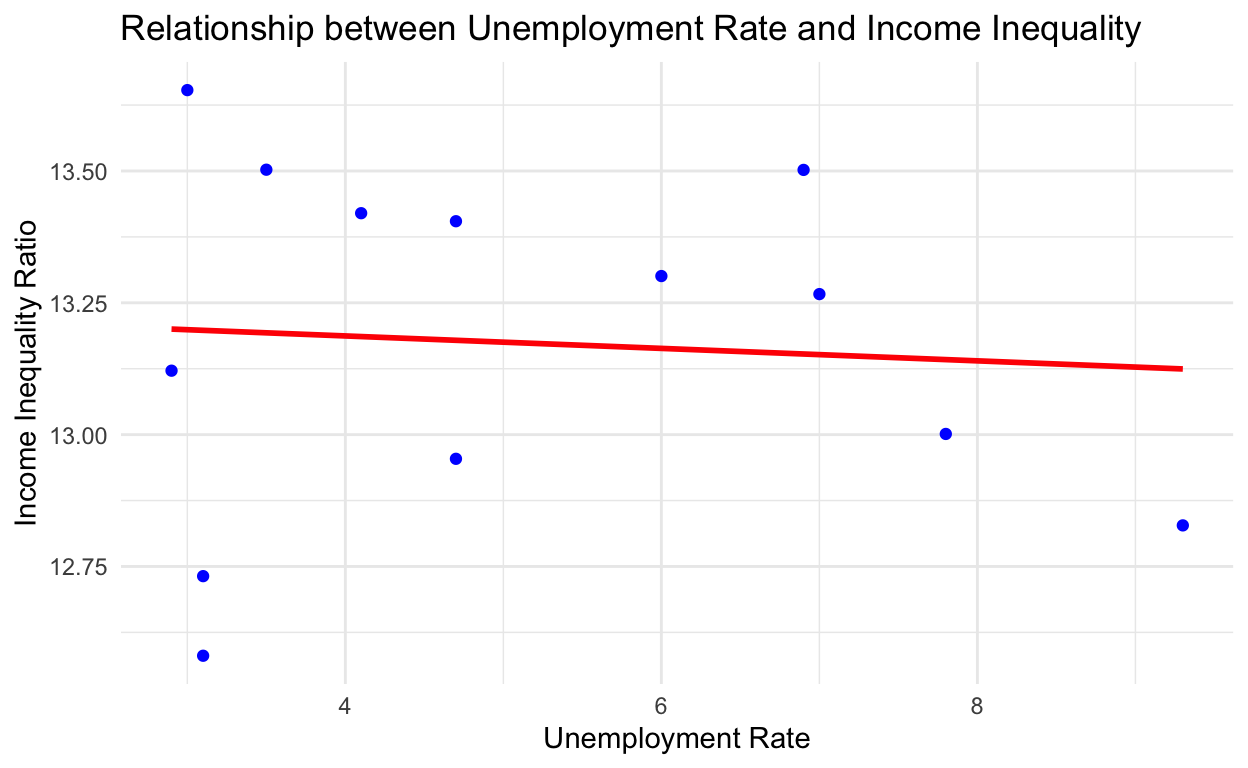
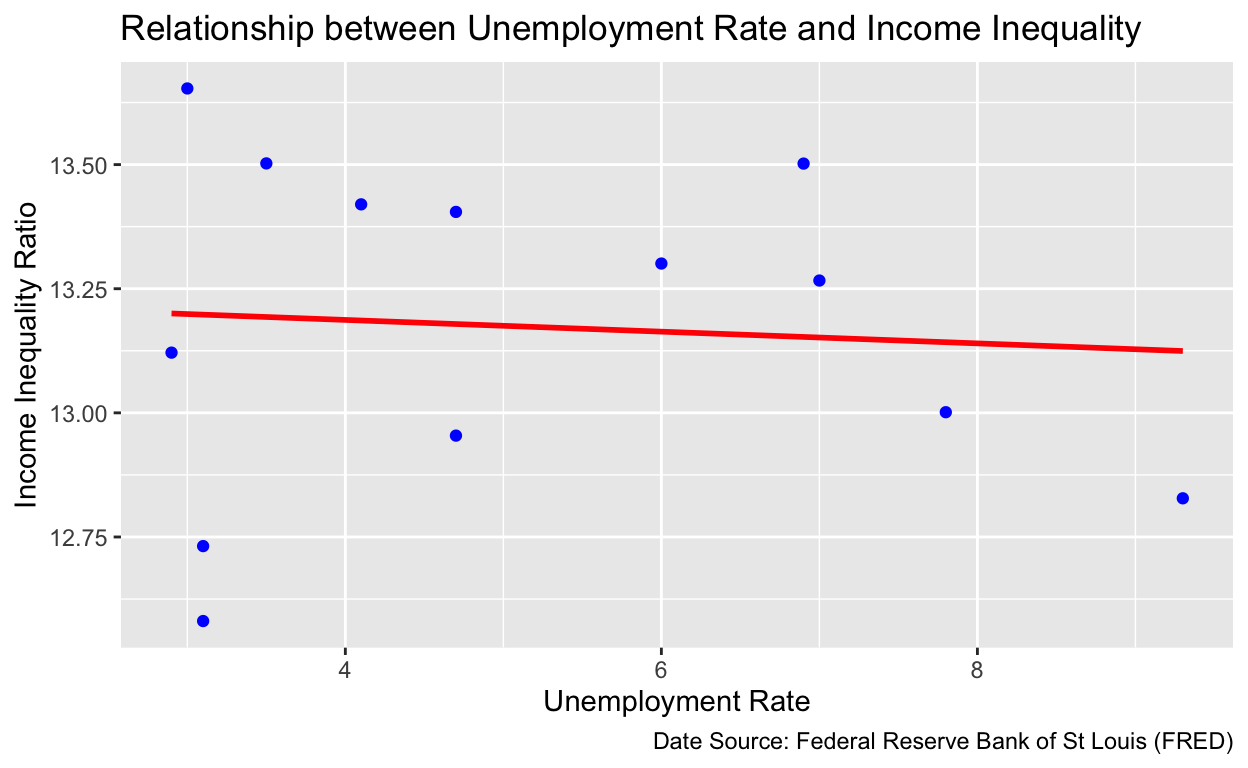
m4 finished

diff --git a/index.html b/index.html
@@ -115,7 +115,7 @@ code span.wa { color: #5e5e5e; font-style: italic; } /* Warning */
   <!--/radix_placeholder_rmarkdown_metadata-->
   
   <script type="text/json" id="radix-resource-manifest">
-  {"type":"character","attributes":{},"value":["index_files/anchor-4.2.2/anchor.min.js","index_files/bowser-1.9.3/bowser.min.js","index_files/distill-2.2.21/template.v2.js","index_files/figure-html5/unnamed-chunk-3-1.png","index_files/header-attrs-2.17/header-attrs.js","index_files/header-attrs-2.28/header-attrs.js","index_files/jquery-3.6.0/jquery-3.6.0.js","index_files/jquery-3.6.0/jquery-3.6.0.min.js","index_files/jquery-3.6.0/jquery-3.6.0.min.map","index_files/popper-2.6.0/popper.min.js","index_files/tippy-6.2.7/tippy-bundle.umd.min.js","index_files/tippy-6.2.7/tippy-light-border.css","index_files/tippy-6.2.7/tippy.css","index_files/tippy-6.2.7/tippy.umd.min.js","index_files/webcomponents-2.0.0/webcomponents.js"]}
+  {"type":"character","attributes":{},"value":["index_files/anchor-4.2.2/anchor.min.js","index_files/bowser-1.9.3/bowser.min.js","index_files/distill-2.2.21/template.v2.js","index_files/figure-html5/unnamed-chunk-3-1.png","index_files/header-attrs-2.17/header-attrs.js","index_files/header-attrs-2.28/header-attrs.js","index_files/header-attrs-2.29/header-attrs.js","index_files/jquery-3.6.0/jquery-3.6.0.js","index_files/jquery-3.6.0/jquery-3.6.0.min.js","index_files/jquery-3.6.0/jquery-3.6.0.min.map","index_files/popper-2.6.0/popper.min.js","index_files/tippy-6.2.7/tippy-bundle.umd.min.js","index_files/tippy-6.2.7/tippy-light-border.css","index_files/tippy-6.2.7/tippy.css","index_files/tippy-6.2.7/tippy.umd.min.js","index_files/webcomponents-2.0.0/webcomponents.js"]}
   </script>
   <!--radix_placeholder_navigation_in_header-->
   <!--/radix_placeholder_navigation_in_header-->
@@ -1569,12 +1569,46 @@ code span.wa { color: #5e5e5e; font-style: italic; } /* Warning */
 <span>  <span class='fu'><a href='https://ggplot2.tidyverse.org/reference/labs.html'>labs</a></span><span class='op'>(</span></span>
 <span>    title <span class='op'>=</span> <span class='st'>"Relationship between Unemployment Rate and Income Inequality"</span>,</span>
 <span>    x <span class='op'>=</span> <span class='st'>"Unemployment Rate"</span>,</span>
-<span>    y <span class='op'>=</span> <span class='st'>"Income Inequality Ratio"</span></span>
-<span>  <span class='op'>)</span> <span class='op'>+</span></span>
-<span>  <span class='fu'><a href='https://ggplot2.tidyverse.org/reference/ggtheme.html'>theme_minimal</a></span><span class='op'>(</span><span class='op'>)</span></span></code></pre>
+<span>    y <span class='op'>=</span> <span class='st'>"Income Inequality Ratio"</span>,</span>
+<span>    caption <span class='op'>=</span> <span class='st'>"Date Source: Federal Reserve Bank of St Louis (FRED)"</span><span class='op'>)</span></span></code></pre>
 </div>
 <p><img src="index_files/figure-html5/unnamed-chunk-3-1.png" width="624" /></p>
 </div>
+<div class="layout-chunk" data-layout="l-body">
+<div class="sourceCode">
+<pre class="sourceCode r"><code class="sourceCode r"><span><span class='kw'><a href='https://rdrr.io/r/base/library.html'>library</a></span><span class='op'>(</span><span class='va'><a href='https://broom.tidymodels.org/'>broom</a></span><span class='op'>)</span></span>
+<span><span class='kw'><a href='https://rdrr.io/r/base/library.html'>library</a></span><span class='op'>(</span><span class='va'><a href='https://yihui.org/knitr/'>knitr</a></span><span class='op'>)</span></span></code></pre>
+</div>
+</div>
+<div class="layout-chunk" data-layout="l-body">
+<div class="sourceCode">
+<pre class="sourceCode r"><code class="sourceCode r"><span><span class='va'>fit</span> <span class='op'>&lt;-</span> <span class='fu'><a href='https://rdrr.io/r/stats/lm.html'>lm</a></span><span class='op'>(</span><span class='va'>X2020RATIO055025</span> <span class='op'>~</span> <span class='va'>WIUR</span>, data <span class='op'>=</span> <span class='va'>merged_data</span><span class='op'>)</span></span>
+<span><span class='va'>fit</span> <span class='op'>&lt;-</span> <span class='fu'><a href='https://rdrr.io/r/stats/coef.html'>coef</a></span><span class='op'>(</span><span class='va'>fit</span><span class='op'>)</span></span>
+<span><span class='fu'>knitr</span><span class='fu'>::</span><span class='fu'><a href='https://rdrr.io/pkg/knitr/man/kable.html'>kable</a></span><span class='op'>(</span><span class='va'>fit</span>, caption <span class='op'>=</span> <span class='st'>"Linear Model Coefficients between Unemployment and Income Inequaility"</span><span class='op'>)</span></span></code></pre>
+</div>
+<table>
+<caption><span id="tab:unnamed-chunk-5">Table 1: </span>Linear Model Coefficients between Unemployment and Income Inequaility</caption>
+<thead>
+<tr class="header">
+<th style="text-align: left;"></th>
+<th style="text-align: right;">x</th>
+</tr>
+</thead>
+<tbody>
+<tr class="odd">
+<td style="text-align: left;">(Intercept)</td>
+<td style="text-align: right;">13.2344245</td>
+</tr>
+<tr class="even">
+<td style="text-align: left;">WIUR</td>
+<td style="text-align: right;">-0.0118127</td>
+</tr>
+</tbody>
+</table>
+</div>
+<h2 id="analysis">Analysis</h2>
+<p>According to my visualization, the slope of the trend appears to be slightly negative, suggesting that higher unemployment leads to lower income inequality, which is contrary to my hypothesis.
+The coefficients of the linear model have an intercept of around 13.23 and a slope of around -0.00118. This means that for every percentage point increase in the unemployment rate, the income inequality ratio decreases by 0.118%. However, as the magnitude of the coefficient is very small, we could consider that there is no strong relationship between unemployment and income inequality, which is also contrary to my hypothesis. This suggests that the unemployment rate may not be a significant driver of income inequality in Wisconsin, there may be other factors that more obviously affect income inequality.</p>
 <div class="sourceCode" id="cb1"><pre class="sourceCode r distill-force-highlighting-css"><code class="sourceCode r"></code></pre></div>
 <!--radix_placeholder_article_footer-->
 <!--/radix_placeholder_article_footer-->
